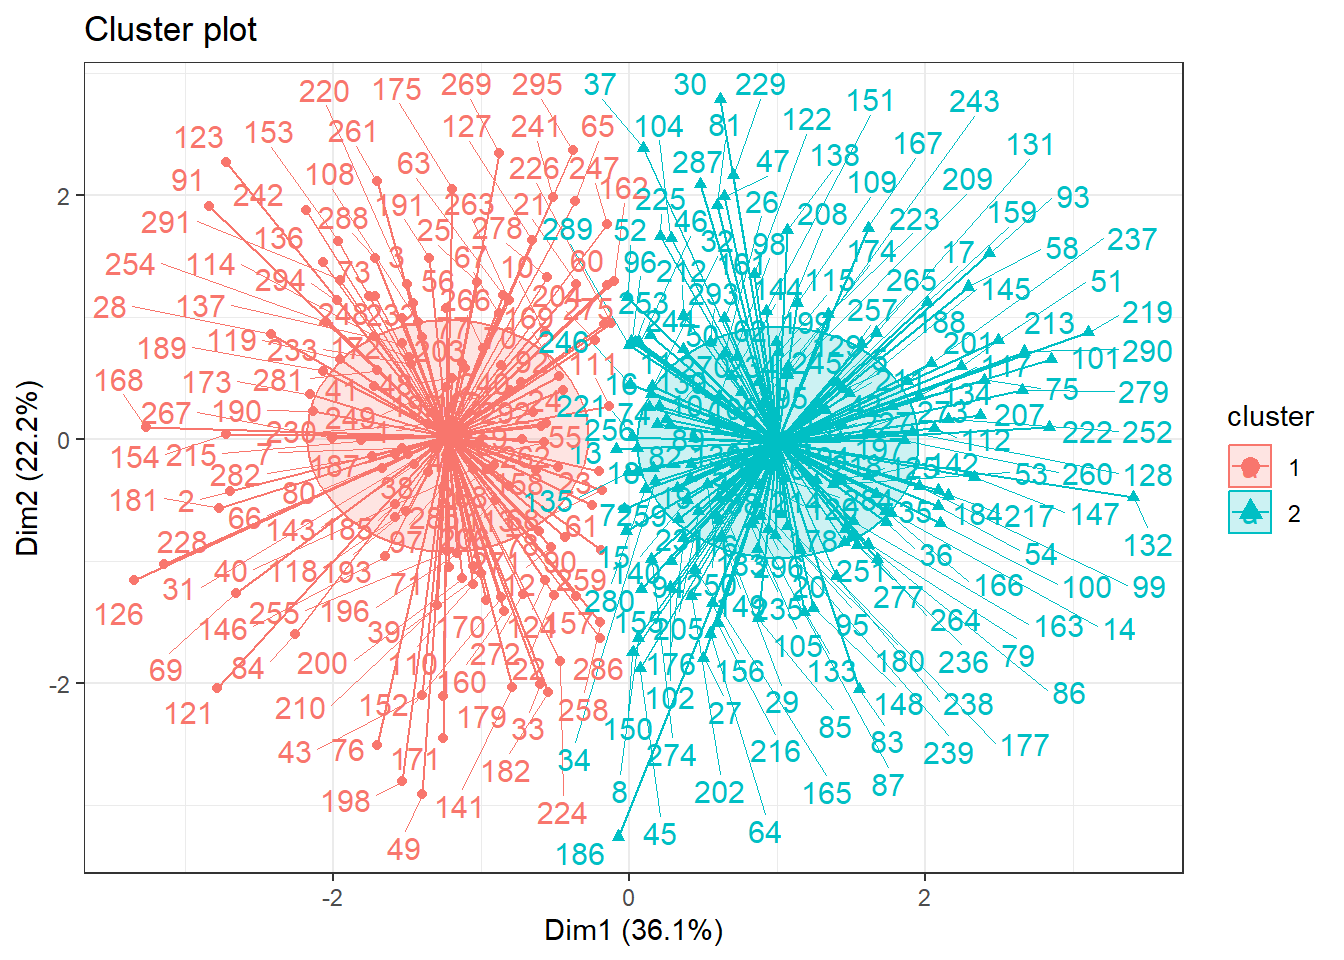
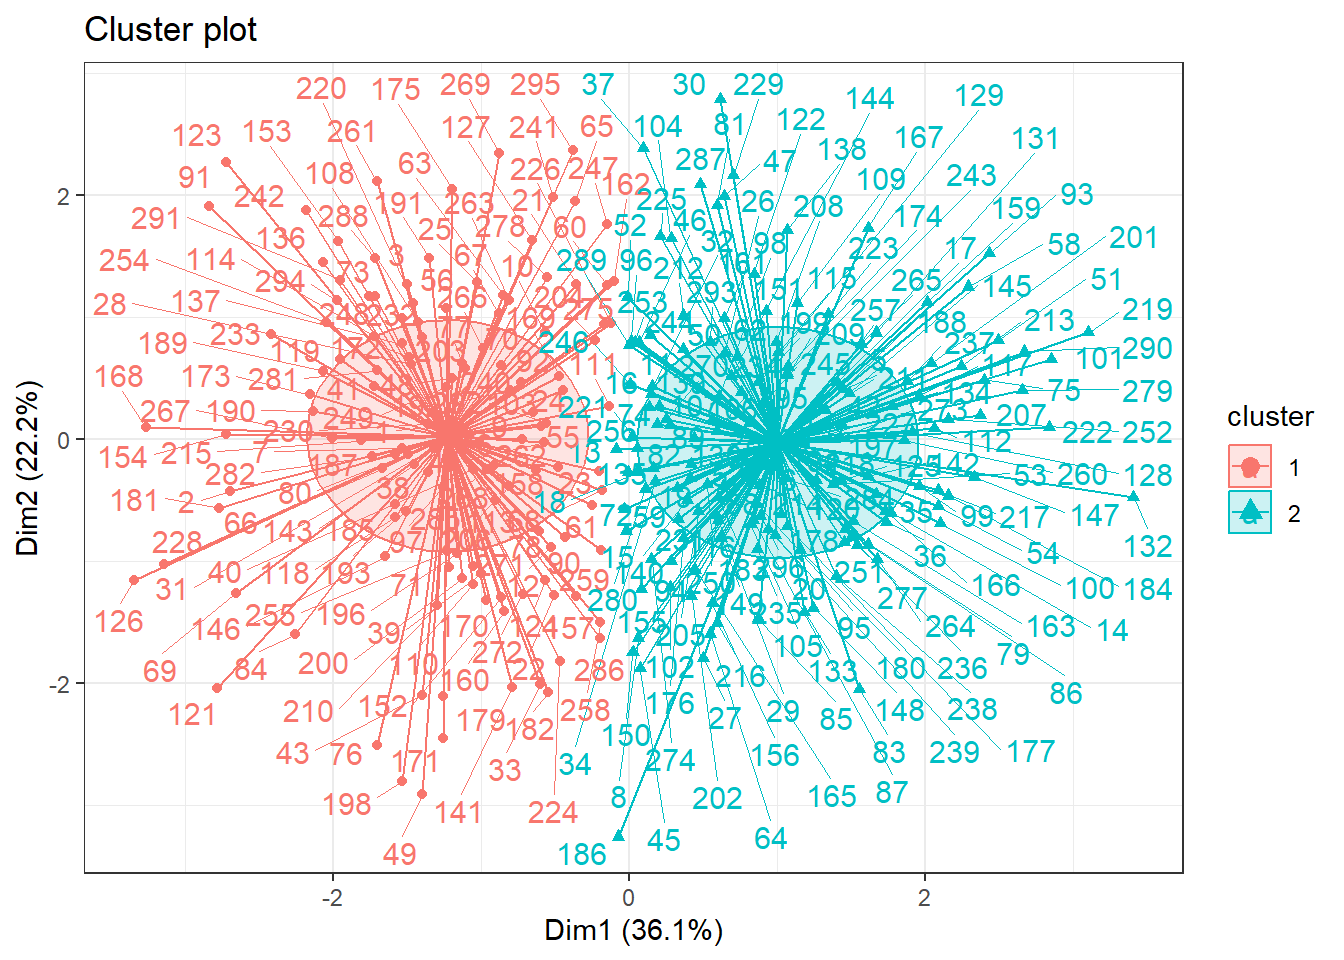
acabado clustering

diff --git a/clustering.html b/clustering.html
@@ -178,6 +178,48 @@ of ggplot2 3.3.4.
 <pre><code>[1] 0.5849612</code></pre>
 </div>
 </div>
+<p>##Centroid</p>
+<div class="cell">
+<div class="cell-output-display">
+<p><img src="clustering_files/figure-html/unnamed-chunk-26-1.png" class="img-fluid" width="672"></p>
+</div>
+</div>
+<div class="cell">
+<div class="cell-output-display">
+<p><img src="clustering_files/figure-html/unnamed-chunk-27-1.png" class="img-fluid" width="672"></p>
+</div>
+</div>
+<div class="cell">
+<div class="cell-output cell-output-stdout">
+<pre><code>[1] 0.5660564</code></pre>
+</div>
+</div>
+<p>##Ward</p>
+<div class="cell">
+<div class="cell-output-display">
+<p><img src="clustering_files/figure-html/unnamed-chunk-29-1.png" class="img-fluid" width="672"></p>
+</div>
+</div>
+<div class="cell">
+<div class="cell-output-display">
+<p><img src="clustering_files/figure-html/unnamed-chunk-30-1.png" class="img-fluid" width="672"></p>
+</div>
+</div>
+<div class="cell">
+<div class="cell-output cell-output-stdout">
+<pre><code>[1] 0.3817074</code></pre>
+</div>
+</div>
+<div class="cell">
+<div class="cell-output cell-output-stdout">
+<pre><code>         average single complete median centroid
+average    1.000  0.552    0.644  0.332    0.371
+single     0.552  1.000    0.361  0.658    0.735
+complete   0.644  0.361    1.000  0.223    0.231
+median     0.332  0.658    0.223  1.000    0.805
+centroid   0.371  0.735    0.231  0.805    1.000</code></pre>
+</div>
+</div>
 
 </main>
 <!-- /main column -->
